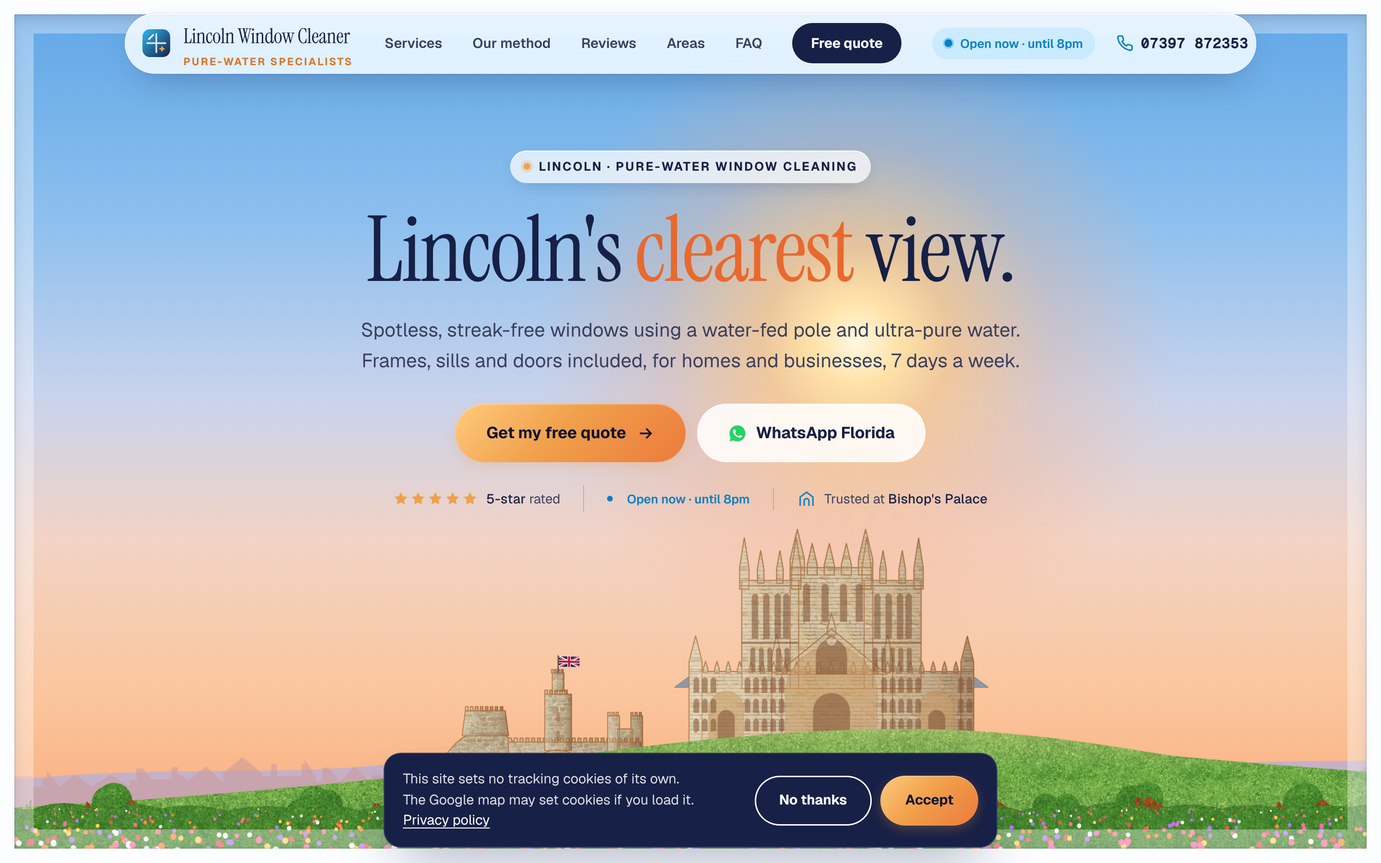
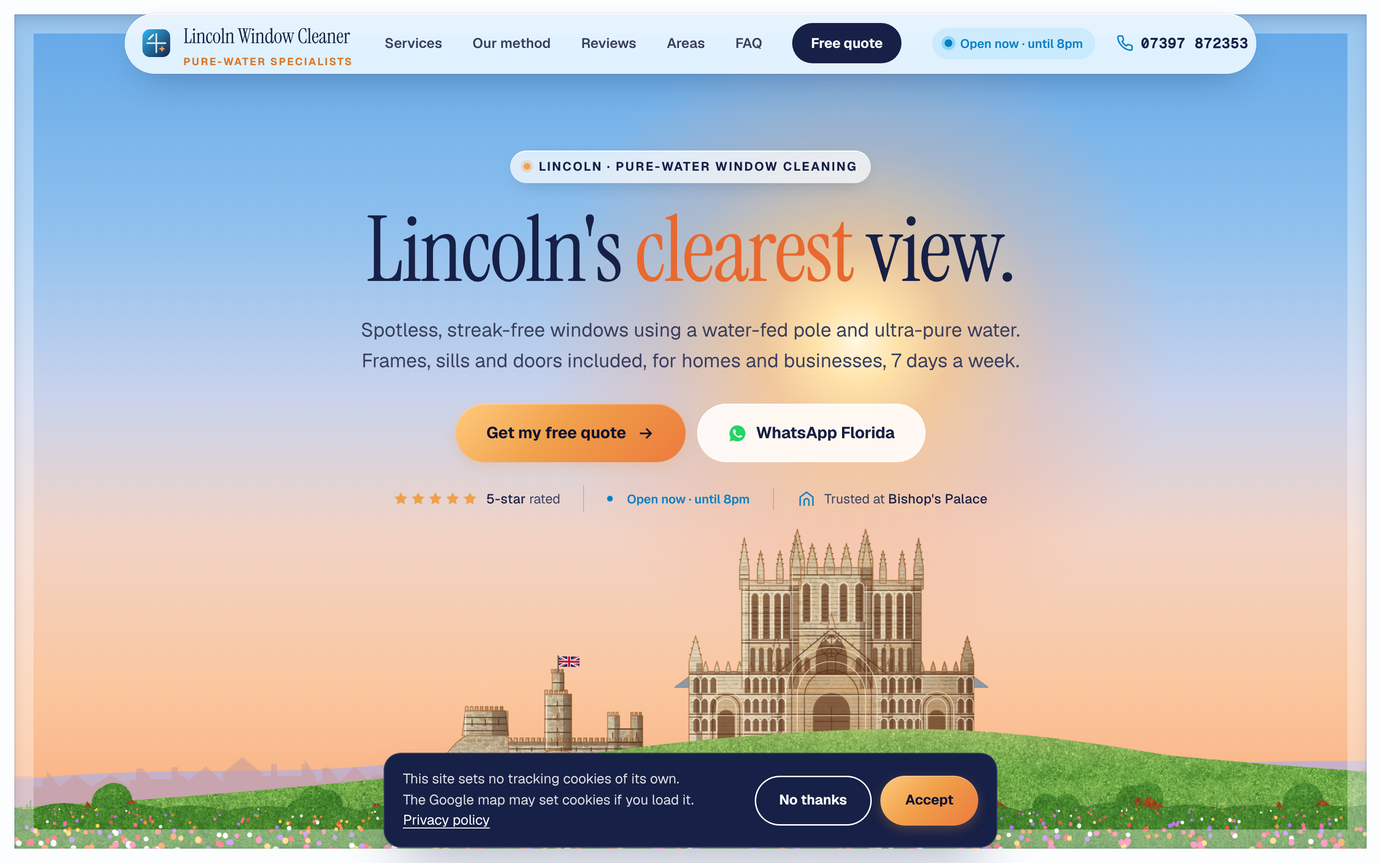
Hero: architectural detail on cathedral and castle (mouldings, arcading, courses, shading)
Claude-Session: https://claude.ai/code/session_01KZy8Ptkq3oxorUJVA8Emz7

Changed region(s): [[0.5, 0.6533, 0.7188, 0.8711], [0.3438, 0.8089, 0.4688, 0.8711]]

diff --git a/index.html b/index.html
@@ -150,14 +150,24 @@
             </g>
           </g>
         </g>
+                <g class="hero__detail">
+          <path fill="#4E3222" opacity=".42" d="M620 296H640V326H620ZM640 334H800V338H640ZM706 276H716V344H706ZM702 250H707V272H702ZM796 302H802V380H796ZM768 302H774V380H768ZM642.5 329h1v5h-1zM649.5 329h1v5h-1zM656.5 329h1v5h-1zM663.5 329h1v5h-1zM670.5 329h1v5h-1zM677.5 329h1v5h-1zM684.5 329h1v5h-1zM691.5 329h1v5h-1zM698.5 329h1v5h-1zM705.5 329h1v5h-1zM712.5 329h1v5h-1zM719.5 329h1v5h-1zM726.5 329h1v5h-1zM733.5 329h1v5h-1zM740.5 329h1v5h-1zM747.5 329h1v5h-1zM754.5 329h1v5h-1zM761.5 329h1v5h-1zM768.5 329h1v5h-1zM775.5 329h1v5h-1zM782.5 329h1v5h-1zM789.5 329h1v5h-1zM796.5 329h1v5h-1z"/>
+          <path fill="none" stroke="#4A2E1C" stroke-opacity=".85" stroke-width="1.2" d="M586 304H638M586 312H638M586 320H638M596 306v8M612 306v8M628 306v8M640 342H800M640 352H800M640 362H800M640 372H800M650 340v5M668 340v5M686 340v5M704 340v5M722 340v5M740 340v5M758 340v5M776 340v5M794 340v5M684 290H716M684 306H716M684 322H716M699 284v7M699 300v7M699 316v7M699 332v7M693 262H707M676 360H722M676 370H722M760 318H802M760 334H802M760 350H802M766 322v7M766 344v7M795 322v7M795 344v7"/>
+          <path fill="none" stroke="#FFF6E4" stroke-opacity=".9" stroke-width="1" d="M588 298V326M686 278V344"/>
+        </g>
         <g fill="#9A6440" opacity=".45"><path d="M775 380v-12a6 6 0 0 1 12 0v12z"/><path d="M698 300a2 2 0 0 1 4 0v10h-4zM698 322a2 2 0 0 1 4 0v10h-4z"/></g>
         <!-- LINCOLN CATHEDRAL west front (from Castle Hill): image screen with blind arcading and three Norman recesses, gable with the great west window, twin west towers and the taller central tower behind -->
         <g class="hero__cathedral" transform="matrix(0.86 0 0 0.86 738.0 -6.0)">
           <path fill="#8F99A3" stroke="#6E7882" d="M120 318L150 296H222V318ZM560 318L530 296H458V318Z"/>
           <g fill="url(#tex-stone)"><g id="cath-shape"><path d="M282 320V150H398V320ZM282 160V138L292.0 96L302 138V160ZM306 160V146L313.0 116L320 146V160ZM330 160V146L337.0 116L344 146V160ZM354 160V146L361.0 116L368 146V160ZM378 160V138L388.0 96L398 138V160ZM214 320V168H294V320ZM211 168H297V175H211ZM211 180V150L217.5 108L224 150V180ZM284 180V150L290.5 108L297 150V180ZM236 172V152L240.5 126L245 152V172ZM263 172V152L267.5 126L272 152V172ZM386 320V168H466V320ZM383 168H469V175H383ZM383 180V150L389.5 108L396 150V180ZM456 180V150L462.5 108L469 150V180ZM408 172V152L412.5 126L417 152V172ZM435 172V152L439.5 126L444 152V172ZM140 400V296H540V400ZM160 298V292L163.0 282L166 292V298ZM176 298V292L179.0 282L182 292V298ZM192 298V292L195.0 282L198 292V298ZM208 298V292L211.0 282L214 292V298ZM224 298V292L227.0 282L230 292V298ZM240 298V292L243.0 282L246 292V298ZM256 298V292L259.0 282L262 292V298ZM272 298V292L275.0 282L278 292V298ZM288 298V292L291.0 282L294 292V298ZM304 298V292L307.0 282L310 292V298ZM320 298V292L323.0 282L326 292V298ZM336 298V292L339.0 282L342 292V298ZM352 298V292L355.0 282L358 292V298ZM368 298V292L371.0 282L374 292V298ZM384 298V292L387.0 282L390 292V298ZM400 298V292L403.0 282L406 292V298ZM416 298V292L419.0 282L422 292V298ZM432 298V292L435.0 282L438 292V298ZM448 298V292L451.0 282L454 292V298ZM464 298V292L467.0 282L470 292V298ZM480 298V292L483.0 282L486 292V298ZM496 298V292L499.0 282L502 292V298ZM512 298V292L515.0 282L518 292V298ZM262 300L340 236L418 300ZM334 244V236L340.0 214L346 236V244ZM140 400V282L149.0 246L158 282V400ZM522 400V282L531.0 246L540 282V400ZM256 400V276L263.0 244L270 276V400ZM412 400V276L419.0 244L426 276V400Z"/></g></g><use href="#cath-shape" fill="url(#hero-shade)"/>
-          <path fill="#C99C68" opacity=".55" d="M168 400V348.0A24.0 24.0 0 0 1 216 348.0V400ZM464 400V348.0A24.0 24.0 0 0 1 512 348.0V400ZM276 400V326.0A64.0 64.0 0 0 1 404 326.0V400ZM292 400V330.0A48.0 48.0 0 0 1 388 330.0V400Z"/>
+          <path fill="#B98A58" opacity=".38" d="M168 400V348.0A24.0 24.0 0 0 1 216 348.0V400ZM464 400V348.0A24.0 24.0 0 0 1 512 348.0V400ZM276 400V326.0A64.0 64.0 0 0 1 404 326.0V400ZM292 400V330.0A48.0 48.0 0 0 1 388 330.0V400Z"/>
         </g>
-        <g fill="#7E5235" opacity=".55" transform="matrix(0.86 0 0 0.86 738.0 -6.0)"><path d="M300 226V178.0Q300 173.5 305.0 172Q310 173.5 310 178.0V226ZM326 226V178.0Q326 173.5 331.0 172Q336 173.5 336 178.0V226ZM352 226V178.0Q352 173.5 357.0 172Q362 173.5 362 178.0V226ZM374 226V178.0Q374 173.5 379.0 172Q384 173.5 384 178.0V226ZM228 250V191.4Q228 187.35 232.5 186Q237 187.35 237 191.4V250ZM244 250V191.4Q244 187.35 248.5 186Q253 187.35 253 191.4V250ZM260 250V191.4Q260 187.35 264.5 186Q269 187.35 269 191.4V250ZM272 250V191.4Q272 187.35 276.5 186Q281 187.35 281 191.4V250ZM226 296V266.2Q226 263.05 229.5 262Q233 263.05 233 266.2V296ZM238 296V266.2Q238 263.05 241.5 262Q245 263.05 245 266.2V296ZM250 296V266.2Q250 263.05 253.5 262Q257 263.05 257 266.2V296ZM262 296V266.2Q262 263.05 265.5 262Q269 263.05 269 266.2V296ZM274 296V266.2Q274 263.05 277.5 262Q281 263.05 281 266.2V296ZM214 254H294V257H214ZM400 250V191.4Q400 187.35 404.5 186Q409 187.35 409 191.4V250ZM416 250V191.4Q416 187.35 420.5 186Q425 187.35 425 191.4V250ZM432 250V191.4Q432 187.35 436.5 186Q441 187.35 441 191.4V250ZM444 250V191.4Q444 187.35 448.5 186Q453 187.35 453 191.4V250ZM398 296V266.2Q398 263.05 401.5 262Q405 263.05 405 266.2V296ZM410 296V266.2Q410 263.05 413.5 262Q417 263.05 417 266.2V296ZM422 296V266.2Q422 263.05 425.5 262Q429 263.05 429 266.2V296ZM434 296V266.2Q434 263.05 437.5 262Q441 263.05 441 266.2V296ZM446 296V266.2Q446 263.05 449.5 262Q453 263.05 453 266.2V296ZM386 254H466V257H386ZM146 326V308.8Q146 305.2 150.0 304Q154 305.2 154 308.8V326ZM158 326V308.8Q158 305.2 162.0 304Q166 305.2 166 308.8V326ZM170 326V308.8Q170 305.2 174.0 304Q178 305.2 178 308.8V326ZM218 326V308.8Q218 305.2 222.0 304Q226 305.2 226 308.8V326ZM230 326V308.8Q230 305.2 234.0 304Q238 305.2 238 308.8V326ZM242 326V308.8Q242 305.2 246.0 304Q250 305.2 250 308.8V326ZM254 326V308.8Q254 305.2 258.0 304Q262 305.2 262 308.8V326ZM266 326V308.8Q266 305.2 270.0 304Q274 305.2 274 308.8V326ZM410 326V308.8Q410 305.2 414.0 304Q418 305.2 418 308.8V326ZM422 326V308.8Q422 305.2 426.0 304Q430 305.2 430 308.8V326ZM434 326V308.8Q434 305.2 438.0 304Q442 305.2 442 308.8V326ZM446 326V308.8Q446 305.2 450.0 304Q454 305.2 454 308.8V326ZM458 326V308.8Q458 305.2 462.0 304Q466 305.2 466 308.8V326ZM518 326V308.8Q518 305.2 522.0 304Q526 305.2 526 308.8V326ZM530 326V308.8Q530 305.2 534.0 304Q538 305.2 538 308.8V326ZM146 354V338.8Q146 335.2 150.0 334Q154 335.2 154 338.8V354ZM158 354V338.8Q158 335.2 162.0 334Q166 335.2 166 338.8V354ZM170 354V338.8Q170 335.2 174.0 334Q178 335.2 178 338.8V354ZM218 354V338.8Q218 335.2 222.0 334Q226 335.2 226 338.8V354ZM230 354V338.8Q230 335.2 234.0 334Q238 335.2 238 338.8V354ZM242 354V338.8Q242 335.2 246.0 334Q250 335.2 250 338.8V354ZM254 354V338.8Q254 335.2 258.0 334Q262 335.2 262 338.8V354ZM266 354V338.8Q266 335.2 270.0 334Q274 335.2 274 338.8V354ZM410 354V338.8Q410 335.2 414.0 334Q418 335.2 418 338.8V354ZM422 354V338.8Q422 335.2 426.0 334Q430 335.2 430 338.8V354ZM434 354V338.8Q434 335.2 438.0 334Q442 335.2 442 338.8V354ZM446 354V338.8Q446 335.2 450.0 334Q454 335.2 454 338.8V354ZM458 354V338.8Q458 335.2 462.0 334Q466 335.2 466 338.8V354ZM518 354V338.8Q518 335.2 522.0 334Q526 335.2 526 338.8V354ZM530 354V338.8Q530 335.2 534.0 334Q538 335.2 538 338.8V354ZM146 380V366.8Q146 363.2 150.0 362Q154 363.2 154 366.8V380ZM158 380V366.8Q158 363.2 162.0 362Q166 363.2 166 366.8V380ZM170 380V366.8Q170 363.2 174.0 362Q178 363.2 178 366.8V380ZM218 380V366.8Q218 363.2 222.0 362Q226 363.2 226 366.8V380ZM230 380V366.8Q230 363.2 234.0 362Q238 363.2 238 366.8V380ZM242 380V366.8Q242 363.2 246.0 362Q250 363.2 250 366.8V380ZM254 380V366.8Q254 363.2 258.0 362Q262 363.2 262 366.8V380ZM266 380V366.8Q266 363.2 270.0 362Q274 363.2 274 366.8V380ZM410 380V366.8Q410 363.2 414.0 362Q418 363.2 418 366.8V380ZM422 380V366.8Q422 363.2 426.0 362Q430 363.2 430 366.8V380ZM434 380V366.8Q434 363.2 438.0 362Q442 363.2 442 366.8V380ZM446 380V366.8Q446 363.2 450.0 362Q454 363.2 454 366.8V380ZM458 380V366.8Q458 363.2 462.0 362Q466 363.2 466 366.8V380ZM518 380V366.8Q518 363.2 522.0 362Q526 363.2 526 366.8V380ZM530 380V366.8Q530 363.2 534.0 362Q538 363.2 538 366.8V380ZM314 400V352A26 26 0 0 1 366 352V400ZM180 400V362.0A12.0 12.0 0 0 1 204 362.0V400ZM476 400V362.0A12.0 12.0 0 0 1 500 362.0V400ZM318 300V274.4Q318 254.6 340.0 248Q362 254.6 362 274.4V300ZM333 252a7 7 0 1 0 14 0a7 7 0 1 0 -14 0ZM148 310h3v12h-3zM148 340h3v12h-3zM148 370h3v12h-3zM530 310h3v12h-3zM530 340h3v12h-3zM530 370h3v12h-3z"/></g>
+        <g fill="#6A4026" opacity=".72" transform="matrix(0.86 0 0 0.86 738.0 -6.0)"><path d="M300 226V178.0Q300 173.5 305.0 172Q310 173.5 310 178.0V226ZM326 226V178.0Q326 173.5 331.0 172Q336 173.5 336 178.0V226ZM352 226V178.0Q352 173.5 357.0 172Q362 173.5 362 178.0V226ZM374 226V178.0Q374 173.5 379.0 172Q384 173.5 384 178.0V226ZM228 250V191.4Q228 187.35 232.5 186Q237 187.35 237 191.4V250ZM244 250V191.4Q244 187.35 248.5 186Q253 187.35 253 191.4V250ZM260 250V191.4Q260 187.35 264.5 186Q269 187.35 269 191.4V250ZM272 250V191.4Q272 187.35 276.5 186Q281 187.35 281 191.4V250ZM226 296V266.2Q226 263.05 229.5 262Q233 263.05 233 266.2V296ZM238 296V266.2Q238 263.05 241.5 262Q245 263.05 245 266.2V296ZM250 296V266.2Q250 263.05 253.5 262Q257 263.05 257 266.2V296ZM262 296V266.2Q262 263.05 265.5 262Q269 263.05 269 266.2V296ZM274 296V266.2Q274 263.05 277.5 262Q281 263.05 281 266.2V296ZM214 254H294V257H214ZM400 250V191.4Q400 187.35 404.5 186Q409 187.35 409 191.4V250ZM416 250V191.4Q416 187.35 420.5 186Q425 187.35 425 191.4V250ZM432 250V191.4Q432 187.35 436.5 186Q441 187.35 441 191.4V250ZM444 250V191.4Q444 187.35 448.5 186Q453 187.35 453 191.4V250ZM398 296V266.2Q398 263.05 401.5 262Q405 263.05 405 266.2V296ZM410 296V266.2Q410 263.05 413.5 262Q417 263.05 417 266.2V296ZM422 296V266.2Q422 263.05 425.5 262Q429 263.05 429 266.2V296ZM434 296V266.2Q434 263.05 437.5 262Q441 263.05 441 266.2V296ZM446 296V266.2Q446 263.05 449.5 262Q453 263.05 453 266.2V296ZM386 254H466V257H386ZM146 326V308.8Q146 305.2 150.0 304Q154 305.2 154 308.8V326ZM158 326V308.8Q158 305.2 162.0 304Q166 305.2 166 308.8V326ZM170 326V308.8Q170 305.2 174.0 304Q178 305.2 178 308.8V326ZM218 326V308.8Q218 305.2 222.0 304Q226 305.2 226 308.8V326ZM230 326V308.8Q230 305.2 234.0 304Q238 305.2 238 308.8V326ZM242 326V308.8Q242 305.2 246.0 304Q250 305.2 250 308.8V326ZM254 326V308.8Q254 305.2 258.0 304Q262 305.2 262 308.8V326ZM266 326V308.8Q266 305.2 270.0 304Q274 305.2 274 308.8V326ZM410 326V308.8Q410 305.2 414.0 304Q418 305.2 418 308.8V326ZM422 326V308.8Q422 305.2 426.0 304Q430 305.2 430 308.8V326ZM434 326V308.8Q434 305.2 438.0 304Q442 305.2 442 308.8V326ZM446 326V308.8Q446 305.2 450.0 304Q454 305.2 454 308.8V326ZM458 326V308.8Q458 305.2 462.0 304Q466 305.2 466 308.8V326ZM518 326V308.8Q518 305.2 522.0 304Q526 305.2 526 308.8V326ZM530 326V308.8Q530 305.2 534.0 304Q538 305.2 538 308.8V326ZM146 354V338.8Q146 335.2 150.0 334Q154 335.2 154 338.8V354ZM158 354V338.8Q158 335.2 162.0 334Q166 335.2 166 338.8V354ZM170 354V338.8Q170 335.2 174.0 334Q178 335.2 178 338.8V354ZM218 354V338.8Q218 335.2 222.0 334Q226 335.2 226 338.8V354ZM230 354V338.8Q230 335.2 234.0 334Q238 335.2 238 338.8V354ZM242 354V338.8Q242 335.2 246.0 334Q250 335.2 250 338.8V354ZM254 354V338.8Q254 335.2 258.0 334Q262 335.2 262 338.8V354ZM266 354V338.8Q266 335.2 270.0 334Q274 335.2 274 338.8V354ZM410 354V338.8Q410 335.2 414.0 334Q418 335.2 418 338.8V354ZM422 354V338.8Q422 335.2 426.0 334Q430 335.2 430 338.8V354ZM434 354V338.8Q434 335.2 438.0 334Q442 335.2 442 338.8V354ZM446 354V338.8Q446 335.2 450.0 334Q454 335.2 454 338.8V354ZM458 354V338.8Q458 335.2 462.0 334Q466 335.2 466 338.8V354ZM518 354V338.8Q518 335.2 522.0 334Q526 335.2 526 338.8V354ZM530 354V338.8Q530 335.2 534.0 334Q538 335.2 538 338.8V354ZM146 380V366.8Q146 363.2 150.0 362Q154 363.2 154 366.8V380ZM158 380V366.8Q158 363.2 162.0 362Q166 363.2 166 366.8V380ZM170 380V366.8Q170 363.2 174.0 362Q178 363.2 178 366.8V380ZM218 380V366.8Q218 363.2 222.0 362Q226 363.2 226 366.8V380ZM230 380V366.8Q230 363.2 234.0 362Q238 363.2 238 366.8V380ZM242 380V366.8Q242 363.2 246.0 362Q250 363.2 250 366.8V380ZM254 380V366.8Q254 363.2 258.0 362Q262 363.2 262 366.8V380ZM266 380V366.8Q266 363.2 270.0 362Q274 363.2 274 366.8V380ZM410 380V366.8Q410 363.2 414.0 362Q418 363.2 418 366.8V380ZM422 380V366.8Q422 363.2 426.0 362Q430 363.2 430 366.8V380ZM434 380V366.8Q434 363.2 438.0 362Q442 363.2 442 366.8V380ZM446 380V366.8Q446 363.2 450.0 362Q454 363.2 454 366.8V380ZM458 380V366.8Q458 363.2 462.0 362Q466 363.2 466 366.8V380ZM518 380V366.8Q518 363.2 522.0 362Q526 363.2 526 366.8V380ZM530 380V366.8Q530 363.2 534.0 362Q538 363.2 538 366.8V380ZM314 400V352A26 26 0 0 1 366 352V400ZM180 400V362.0A12.0 12.0 0 0 1 204 362.0V400ZM476 400V362.0A12.0 12.0 0 0 1 500 362.0V400ZM318 300V274.4Q318 254.6 340.0 248Q362 254.6 362 274.4V300ZM333 252a7 7 0 1 0 14 0a7 7 0 1 0 -14 0ZM148 310h3v12h-3zM148 340h3v12h-3zM148 370h3v12h-3zM530 310h3v12h-3zM530 340h3v12h-3zM530 370h3v12h-3zM290 296V280.8Q290 277.2 294.0 276Q298 277.2 298 280.8V296M292.5 296v-12a1.5 1.5 0 0 1 3 0v12zM302 296V280.8Q302 277.2 306.0 276Q310 277.2 310 280.8V296M304.5 296v-12a1.5 1.5 0 0 1 3 0v12zM374 296V280.8Q374 277.2 378.0 276Q382 277.2 382 280.8V296M376.5 296v-12a1.5 1.5 0 0 1 3 0v12zM386 296V280.8Q386 277.2 390.0 276Q394 277.2 394 280.8V296M388.5 296v-12a1.5 1.5 0 0 1 3 0v12z"/></g>
+        <g class="hero__detail" transform="matrix(0.86 0 0 0.86 738.0 -6.0)">
+          <path fill="#5A341C" opacity=".4" d="M280 175H294V320H280ZM452 175H466V320H452ZM380 150H398V320H380ZM140 296H540V300H140ZM149.9 284H158V400H149.9ZM531.9 284H540V400H531.9ZM263.7 278H270V400H263.7ZM419.7 278H426V400H419.7Z"/>
+          <path fill="none" stroke="#55301A" stroke-opacity=".85" stroke-width="1.1" d="M224 175V320M284 175V320M214 182H294M214 214H294M214 252H294M214 300H294M229 206H236M229 212H236M229 218H236M229 224H236M229 230H236M229 236H236M229 242H236M245 206H252M245 212H252M245 218H252M245 224H252M245 230H252M245 236H252M245 242H252M261 206H268M261 212H268M261 218H268M261 224H268M261 230H268M261 236H268M261 242H268M273 206H280M273 212H280M273 218H280M273 224H280M273 230H280M273 236H280M273 242H280M212.625 139.5l-2 -1.5M222.375 139.5l2 -1.5M214.25 129.0l-2 -1.5M220.75 129.0l2 -1.5M215.875 118.5l-2 -1.5M219.125 118.5l2 -1.5M285.625 139.5l-2 -1.5M295.375 139.5l2 -1.5M287.25 129.0l-2 -1.5M293.75 129.0l2 -1.5M288.875 118.5l-2 -1.5M292.125 118.5l2 -1.5M237.125 145.5l-2 -1.5M243.875 145.5l2 -1.5M238.25 139.0l-2 -1.5M242.75 139.0l2 -1.5M239.375 132.5l-2 -1.5M241.625 132.5l2 -1.5M264.125 145.5l-2 -1.5M270.875 145.5l2 -1.5M265.25 139.0l-2 -1.5M269.75 139.0l2 -1.5M266.375 132.5l-2 -1.5M268.625 132.5l2 -1.5M211 160h13M211 166h13M284 160h13M284 166h13M396 175V320M456 175V320M386 182H466M386 214H466M386 252H466M386 300H466M401 206H408M401 212H408M401 218H408M401 224H408M401 230H408M401 236H408M401 242H408M417 206H424M417 212H424M417 218H424M417 224H424M417 230H424M417 236H424M417 242H424M433 206H440M433 212H440M433 218H440M433 224H440M433 230H440M433 236H440M433 242H440M445 206H452M445 212H452M445 218H452M445 224H452M445 230H452M445 236H452M445 242H452M384.625 139.5l-2 -1.5M394.375 139.5l2 -1.5M386.25 129.0l-2 -1.5M392.75 129.0l2 -1.5M387.875 118.5l-2 -1.5M391.125 118.5l2 -1.5M457.625 139.5l-2 -1.5M467.375 139.5l2 -1.5M459.25 129.0l-2 -1.5M465.75 129.0l2 -1.5M460.875 118.5l-2 -1.5M464.125 118.5l2 -1.5M409.125 145.5l-2 -1.5M415.875 145.5l2 -1.5M410.25 139.0l-2 -1.5M414.75 139.0l2 -1.5M411.375 132.5l-2 -1.5M413.625 132.5l2 -1.5M436.125 145.5l-2 -1.5M442.875 145.5l2 -1.5M437.25 139.0l-2 -1.5M441.75 139.0l2 -1.5M438.375 132.5l-2 -1.5M440.625 132.5l2 -1.5M383 160h13M383 166h13M456 160h13M456 166h13M282 160H398M282 236H398M282 246H398M301 190H309M301 196H309M301 202H309M301 208H309M301 214H309M301 220H309M327 190H335M327 196H335M327 202H335M327 208H335M327 214H335M327 220H335M353 190H361M353 196H361M353 202H361M353 208H361M353 214H361M353 220H361M375 190H383M375 196H383M375 202H383M375 208H383M375 214H383M375 220H383M284.5 127.5l-2 -1.5M299.5 127.5l2 -1.5M287.0 117.0l-2 -1.5M297.0 117.0l2 -1.5M289.5 106.5l-2 -1.5M294.5 106.5l2 -1.5M380.5 127.5l-2 -1.5M395.5 127.5l2 -1.5M383.0 117.0l-2 -1.5M393.0 117.0l2 -1.5M385.5 106.5l-2 -1.5M390.5 106.5l2 -1.5M307.75 138.5l-2 -1.5M318.25 138.5l2 -1.5M309.5 131.0l-2 -1.5M316.5 131.0l2 -1.5M311.25 123.5l-2 -1.5M314.75 123.5l2 -1.5M331.75 138.5l-2 -1.5M342.25 138.5l2 -1.5M333.5 131.0l-2 -1.5M340.5 131.0l2 -1.5M335.25 123.5l-2 -1.5M338.75 123.5l2 -1.5M355.75 138.5l-2 -1.5M366.25 138.5l2 -1.5M357.5 131.0l-2 -1.5M364.5 131.0l2 -1.5M359.25 123.5l-2 -1.5M362.75 123.5l2 -1.5M140 300H540M140 328H540M140 356H540M140 384H540M144.5 310V326M143 308.8h3M156.5 310V326M155 308.8h3M168.5 310V326M167 308.8h3M216.5 310V326M215 308.8h3M228.5 310V326M227 308.8h3M240.5 310V326M239 308.8h3M252.5 310V326M251 308.8h3M264.5 310V326M263 308.8h3M408.5 310V326M407 308.8h3M420.5 310V326M419 308.8h3M432.5 310V326M431 308.8h3M444.5 310V326M443 308.8h3M456.5 310V326M455 308.8h3M516.5 310V326M515 308.8h3M528.5 310V326M527 308.8h3M144.5 340V354M143 338.8h3M156.5 340V354M155 338.8h3M168.5 340V354M167 338.8h3M216.5 340V354M215 338.8h3M228.5 340V354M227 338.8h3M240.5 340V354M239 338.8h3M252.5 340V354M251 338.8h3M264.5 340V354M263 338.8h3M408.5 340V354M407 338.8h3M420.5 340V354M419 338.8h3M432.5 340V354M431 338.8h3M444.5 340V354M443 338.8h3M456.5 340V354M455 338.8h3M516.5 340V354M515 338.8h3M528.5 340V354M527 338.8h3M144.5 368V380M143 366.8h3M156.5 368V380M155 366.8h3M168.5 368V380M167 366.8h3M216.5 368V380M215 366.8h3M228.5 368V380M227 366.8h3M240.5 368V380M239 366.8h3M252.5 368V380M251 366.8h3M264.5 368V380M263 366.8h3M408.5 368V380M407 366.8h3M420.5 368V380M419 366.8h3M432.5 368V380M431 366.8h3M444.5 368V380M443 366.8h3M456.5 368V380M455 366.8h3M516.5 368V380M515 366.8h3M528.5 368V380M527 366.8h3M140 300H158M140 330H158M140 360H158M142.25 273.0l-2 -1.5M155.75 273.0l2 -1.5M144.5 264.0l-2 -1.5M153.5 264.0l2 -1.5M146.75 255.0l-2 -1.5M151.25 255.0l2 -1.5M522 300H540M522 330H540M522 360H540M524.25 273.0l-2 -1.5M537.75 273.0l2 -1.5M526.5 264.0l-2 -1.5M535.5 264.0l2 -1.5M528.75 255.0l-2 -1.5M533.25 255.0l2 -1.5M256 300H270M256 330H270M256 360H270M257.75 268.0l-2 -1.5M268.25 268.0l2 -1.5M259.5 260.0l-2 -1.5M266.5 260.0l2 -1.5M261.25 252.0l-2 -1.5M264.75 252.0l2 -1.5M412 300H426M412 330H426M412 360H426M413.75 268.0l-2 -1.5M424.25 268.0l2 -1.5M415.5 260.0l-2 -1.5M422.5 260.0l2 -1.5M417.25 252.0l-2 -1.5M420.75 252.0l2 -1.5M262 300L340 236L418 300M271.75 292.0l-1 -3M408.25 292.0l1 -3M281.5 284.0l-1 -3M398.5 284.0l1 -3M291.25 276.0l-1 -3M388.75 276.0l1 -3M301.0 268.0l-1 -3M379.0 268.0l1 -3M310.75 260.0l-1 -3M369.25 260.0l1 -3M320.5 252.0l-1 -3M359.5 252.0l1 -3M330.25 244.0l-1 -3M349.75 244.0l1 -3M340 260m-15 0a15 15 0 1 0 30 0a15 15 0 1 0 -30 0M340 260L355.0 260.0M340 260L350.6 270.6M340 260L340.0 275.0M340 260L329.4 270.6M340 260L325.0 260.0M340 260L329.4 249.4M340 260L340.0 245.0M340 260L350.6 249.4M334 272V300M346 272V300M284 400V326.0A56.0 56.0 0 0 1 396 326.0V400M302 400V332.0A38.0 38.0 0 0 1 378 332.0V400M173 400V348.0A19.0 19.0 0 0 1 211 348.0V400M469 400V348.0A19.0 19.0 0 0 1 507 348.0V400M316 366h48M316 380h48M316 392h48M340 346V400"/>
+          <path fill="none" stroke="#FFF6E4" stroke-opacity=".9" stroke-width=".9" d="M217 175V320M214 184H294M214 254H294M226 250V190.8Q226 184.95 232.5 183Q239 184.95 239 190.8V250M242 250V190.8Q242 184.95 248.5 183Q255 184.95 255 190.8V250M258 250V190.8Q258 184.95 264.5 183Q271 184.95 271 190.8V250M270 250V190.8Q270 184.95 276.5 183Q283 184.95 283 190.8V250M389 175V320M386 184H466M386 254H466M398 250V190.8Q398 184.95 404.5 183Q411 184.95 411 190.8V250M414 250V190.8Q414 184.95 420.5 183Q427 184.95 427 190.8V250M430 250V190.8Q430 184.95 436.5 183Q443 184.95 443 190.8V250M442 250V190.8Q442 184.95 448.5 183Q455 184.95 455 190.8V250M285 150V320M282 238H398M298 226V178.4Q298 172.1 305.0 170Q312 172.1 312 178.4V226M324 226V178.4Q324 172.1 331.0 170Q338 172.1 338 178.4V226M350 226V178.4Q350 172.1 357.0 170Q364 172.1 364 178.4V226M372 226V178.4Q372 172.1 379.0 170Q386 172.1 386 178.4V226M140 302H540M140 330H540M140 358H540M144.5 326V309.6Q144.5 304.65 150.0 303Q155.5 304.65 155.5 309.6V326M156.5 326V309.6Q156.5 304.65 162.0 303Q167.5 304.65 167.5 309.6V326M168.5 326V309.6Q168.5 304.65 174.0 303Q179.5 304.65 179.5 309.6V326M216.5 326V309.6Q216.5 304.65 222.0 303Q227.5 304.65 227.5 309.6V326M228.5 326V309.6Q228.5 304.65 234.0 303Q239.5 304.65 239.5 309.6V326M240.5 326V309.6Q240.5 304.65 246.0 303Q251.5 304.65 251.5 309.6V326M252.5 326V309.6Q252.5 304.65 258.0 303Q263.5 304.65 263.5 309.6V326M264.5 326V309.6Q264.5 304.65 270.0 303Q275.5 304.65 275.5 309.6V326M408.5 326V309.6Q408.5 304.65 414.0 303Q419.5 304.65 419.5 309.6V326M420.5 326V309.6Q420.5 304.65 426.0 303Q431.5 304.65 431.5 309.6V326M432.5 326V309.6Q432.5 304.65 438.0 303Q443.5 304.65 443.5 309.6V326M444.5 326V309.6Q444.5 304.65 450.0 303Q455.5 304.65 455.5 309.6V326M456.5 326V309.6Q456.5 304.65 462.0 303Q467.5 304.65 467.5 309.6V326M516.5 326V309.6Q516.5 304.65 522.0 303Q527.5 304.65 527.5 309.6V326M528.5 326V309.6Q528.5 304.65 534.0 303Q539.5 304.65 539.5 309.6V326M144.5 354V339.6Q144.5 334.65 150.0 333Q155.5 334.65 155.5 339.6V354M156.5 354V339.6Q156.5 334.65 162.0 333Q167.5 334.65 167.5 339.6V354M168.5 354V339.6Q168.5 334.65 174.0 333Q179.5 334.65 179.5 339.6V354M216.5 354V339.6Q216.5 334.65 222.0 333Q227.5 334.65 227.5 339.6V354M228.5 354V339.6Q228.5 334.65 234.0 333Q239.5 334.65 239.5 339.6V354M240.5 354V339.6Q240.5 334.65 246.0 333Q251.5 334.65 251.5 339.6V354M252.5 354V339.6Q252.5 334.65 258.0 333Q263.5 334.65 263.5 339.6V354M264.5 354V339.6Q264.5 334.65 270.0 333Q275.5 334.65 275.5 339.6V354M408.5 354V339.6Q408.5 334.65 414.0 333Q419.5 334.65 419.5 339.6V354M420.5 354V339.6Q420.5 334.65 426.0 333Q431.5 334.65 431.5 339.6V354M432.5 354V339.6Q432.5 334.65 438.0 333Q443.5 334.65 443.5 339.6V354M444.5 354V339.6Q444.5 334.65 450.0 333Q455.5 334.65 455.5 339.6V354M456.5 354V339.6Q456.5 334.65 462.0 333Q467.5 334.65 467.5 339.6V354M516.5 354V339.6Q516.5 334.65 522.0 333Q527.5 334.65 527.5 339.6V354M528.5 354V339.6Q528.5 334.65 534.0 333Q539.5 334.65 539.5 339.6V354M144.5 380V367.6Q144.5 362.65 150.0 361Q155.5 362.65 155.5 367.6V380M156.5 380V367.6Q156.5 362.65 162.0 361Q167.5 362.65 167.5 367.6V380M168.5 380V367.6Q168.5 362.65 174.0 361Q179.5 362.65 179.5 367.6V380M216.5 380V367.6Q216.5 362.65 222.0 361Q227.5 362.65 227.5 367.6V380M228.5 380V367.6Q228.5 362.65 234.0 361Q239.5 362.65 239.5 367.6V380M240.5 380V367.6Q240.5 362.65 246.0 361Q251.5 362.65 251.5 367.6V380M252.5 380V367.6Q252.5 362.65 258.0 361Q263.5 362.65 263.5 367.6V380M264.5 380V367.6Q264.5 362.65 270.0 361Q275.5 362.65 275.5 367.6V380M408.5 380V367.6Q408.5 362.65 414.0 361Q419.5 362.65 419.5 367.6V380M420.5 380V367.6Q420.5 362.65 426.0 361Q431.5 362.65 431.5 367.6V380M432.5 380V367.6Q432.5 362.65 438.0 361Q443.5 362.65 443.5 367.6V380M444.5 380V367.6Q444.5 362.65 450.0 361Q455.5 362.65 455.5 367.6V380M456.5 380V367.6Q456.5 362.65 462.0 361Q467.5 362.65 467.5 367.6V380M516.5 380V367.6Q516.5 362.65 522.0 361Q527.5 362.65 527.5 367.6V380M528.5 380V367.6Q528.5 362.65 534.0 361Q539.5 362.65 539.5 367.6V380M276 400V326.0A64.0 64.0 0 0 1 404 326.0V400M292 400V330.0A48.0 48.0 0 0 1 388 330.0V400M168 400V348.0A24.0 24.0 0 0 1 216 348.0V400M178 400V348.0A14.0 14.0 0 0 1 206 348.0V400M464 400V348.0A24.0 24.0 0 0 1 512 348.0V400M474 400V348.0A14.0 14.0 0 0 1 502 348.0V400"/>
+        </g>
         <!-- The hill - sits INTO the base of buildings -->
         <path fill="url(#tex-grass)" d="M-1220 480V428C-800 426 -300 420 0 415C240 404 520 378 720 350C830 335 960 320 1090 318C1230 316 1330 332 1440 350C1800 384 2200 400 2640 404V480Z"/><path fill="url(#hero-hillshade)" d="M-1220 480V428C-800 426 -300 420 0 415C240 404 520 378 720 350C830 335 960 320 1090 318C1230 316 1330 332 1440 350C1800 384 2200 400 2640 404V480Z"/>
       </g>

diff --git a/parts/hero.html b/parts/hero.html
@@ -58,14 +58,24 @@
             </g>
           </g>
         </g>
+                <g class="hero__detail">
+          <path fill="#4E3222" opacity=".42" d="M620 296H640V326H620ZM640 334H800V338H640ZM706 276H716V344H706ZM702 250H707V272H702ZM796 302H802V380H796ZM768 302H774V380H768ZM642.5 329h1v5h-1zM649.5 329h1v5h-1zM656.5 329h1v5h-1zM663.5 329h1v5h-1zM670.5 329h1v5h-1zM677.5 329h1v5h-1zM684.5 329h1v5h-1zM691.5 329h1v5h-1zM698.5 329h1v5h-1zM705.5 329h1v5h-1zM712.5 329h1v5h-1zM719.5 329h1v5h-1zM726.5 329h1v5h-1zM733.5 329h1v5h-1zM740.5 329h1v5h-1zM747.5 329h1v5h-1zM754.5 329h1v5h-1zM761.5 329h1v5h-1zM768.5 329h1v5h-1zM775.5 329h1v5h-1zM782.5 329h1v5h-1zM789.5 329h1v5h-1zM796.5 329h1v5h-1z"/>
+          <path fill="none" stroke="#4A2E1C" stroke-opacity=".85" stroke-width="1.2" d="M586 304H638M586 312H638M586 320H638M596 306v8M612 306v8M628 306v8M640 342H800M640 352H800M640 362H800M640 372H800M650 340v5M668 340v5M686 340v5M704 340v5M722 340v5M740 340v5M758 340v5M776 340v5M794 340v5M684 290H716M684 306H716M684 322H716M699 284v7M699 300v7M699 316v7M699 332v7M693 262H707M676 360H722M676 370H722M760 318H802M760 334H802M760 350H802M766 322v7M766 344v7M795 322v7M795 344v7"/>
+          <path fill="none" stroke="#FFF6E4" stroke-opacity=".9" stroke-width="1" d="M588 298V326M686 278V344"/>
+        </g>
         <g fill="#9A6440" opacity=".45"><path d="M775 380v-12a6 6 0 0 1 12 0v12z"/><path d="M698 300a2 2 0 0 1 4 0v10h-4zM698 322a2 2 0 0 1 4 0v10h-4z"/></g>
         <!-- LINCOLN CATHEDRAL west front (from Castle Hill): image screen with blind arcading and three Norman recesses, gable with the great west window, twin west towers and the taller central tower behind -->
         <g class="hero__cathedral" transform="matrix(0.86 0 0 0.86 738.0 -6.0)">
           <path fill="#8F99A3" stroke="#6E7882" d="M120 318L150 296H222V318ZM560 318L530 296H458V318Z"/>
           <g fill="url(#tex-stone)"><g id="cath-shape"><path d="M282 320V150H398V320ZM282 160V138L292.0 96L302 138V160ZM306 160V146L313.0 116L320 146V160ZM330 160V146L337.0 116L344 146V160ZM354 160V146L361.0 116L368 146V160ZM378 160V138L388.0 96L398 138V160ZM214 320V168H294V320ZM211 168H297V175H211ZM211 180V150L217.5 108L224 150V180ZM284 180V150L290.5 108L297 150V180ZM236 172V152L240.5 126L245 152V172ZM263 172V152L267.5 126L272 152V172ZM386 320V168H466V320ZM383 168H469V175H383ZM383 180V150L389.5 108L396 150V180ZM456 180V150L462.5 108L469 150V180ZM408 172V152L412.5 126L417 152V172ZM435 172V152L439.5 126L444 152V172ZM140 400V296H540V400ZM160 298V292L163.0 282L166 292V298ZM176 298V292L179.0 282L182 292V298ZM192 298V292L195.0 282L198 292V298ZM208 298V292L211.0 282L214 292V298ZM224 298V292L227.0 282L230 292V298ZM240 298V292L243.0 282L246 292V298ZM256 298V292L259.0 282L262 292V298ZM272 298V292L275.0 282L278 292V298ZM288 298V292L291.0 282L294 292V298ZM304 298V292L307.0 282L310 292V298ZM320 298V292L323.0 282L326 292V298ZM336 298V292L339.0 282L342 292V298ZM352 298V292L355.0 282L358 292V298ZM368 298V292L371.0 282L374 292V298ZM384 298V292L387.0 282L390 292V298ZM400 298V292L403.0 282L406 292V298ZM416 298V292L419.0 282L422 292V298ZM432 298V292L435.0 282L438 292V298ZM448 298V292L451.0 282L454 292V298ZM464 298V292L467.0 282L470 292V298ZM480 298V292L483.0 282L486 292V298ZM496 298V292L499.0 282L502 292V298ZM512 298V292L515.0 282L518 292V298ZM262 300L340 236L418 300ZM334 244V236L340.0 214L346 236V244ZM140 400V282L149.0 246L158 282V400ZM522 400V282L531.0 246L540 282V400ZM256 400V276L263.0 244L270 276V400ZM412 400V276L419.0 244L426 276V400Z"/></g></g><use href="#cath-shape" fill="url(#hero-shade)"/>
-          <path fill="#C99C68" opacity=".55" d="M168 400V348.0A24.0 24.0 0 0 1 216 348.0V400ZM464 400V348.0A24.0 24.0 0 0 1 512 348.0V400ZM276 400V326.0A64.0 64.0 0 0 1 404 326.0V400ZM292 400V330.0A48.0 48.0 0 0 1 388 330.0V400Z"/>
+          <path fill="#B98A58" opacity=".38" d="M168 400V348.0A24.0 24.0 0 0 1 216 348.0V400ZM464 400V348.0A24.0 24.0 0 0 1 512 348.0V400ZM276 400V326.0A64.0 64.0 0 0 1 404 326.0V400ZM292 400V330.0A48.0 48.0 0 0 1 388 330.0V400Z"/>
         </g>
-        <g fill="#7E5235" opacity=".55" transform="matrix(0.86 0 0 0.86 738.0 -6.0)"><path d="M300 226V178.0Q300 173.5 305.0 172Q310 173.5 310 178.0V226ZM326 226V178.0Q326 173.5 331.0 172Q336 173.5 336 178.0V226ZM352 226V178.0Q352 173.5 357.0 172Q362 173.5 362 178.0V226ZM374 226V178.0Q374 173.5 379.0 172Q384 173.5 384 178.0V226ZM228 250V191.4Q228 187.35 232.5 186Q237 187.35 237 191.4V250ZM244 250V191.4Q244 187.35 248.5 186Q253 187.35 253 191.4V250ZM260 250V191.4Q260 187.35 264.5 186Q269 187.35 269 191.4V250ZM272 250V191.4Q272 187.35 276.5 186Q281 187.35 281 191.4V250ZM226 296V266.2Q226 263.05 229.5 262Q233 263.05 233 266.2V296ZM238 296V266.2Q238 263.05 241.5 262Q245 263.05 245 266.2V296ZM250 296V266.2Q250 263.05 253.5 262Q257 263.05 257 266.2V296ZM262 296V266.2Q262 263.05 265.5 262Q269 263.05 269 266.2V296ZM274 296V266.2Q274 263.05 277.5 262Q281 263.05 281 266.2V296ZM214 254H294V257H214ZM400 250V191.4Q400 187.35 404.5 186Q409 187.35 409 191.4V250ZM416 250V191.4Q416 187.35 420.5 186Q425 187.35 425 191.4V250ZM432 250V191.4Q432 187.35 436.5 186Q441 187.35 441 191.4V250ZM444 250V191.4Q444 187.35 448.5 186Q453 187.35 453 191.4V250ZM398 296V266.2Q398 263.05 401.5 262Q405 263.05 405 266.2V296ZM410 296V266.2Q410 263.05 413.5 262Q417 263.05 417 266.2V296ZM422 296V266.2Q422 263.05 425.5 262Q429 263.05 429 266.2V296ZM434 296V266.2Q434 263.05 437.5 262Q441 263.05 441 266.2V296ZM446 296V266.2Q446 263.05 449.5 262Q453 263.05 453 266.2V296ZM386 254H466V257H386ZM146 326V308.8Q146 305.2 150.0 304Q154 305.2 154 308.8V326ZM158 326V308.8Q158 305.2 162.0 304Q166 305.2 166 308.8V326ZM170 326V308.8Q170 305.2 174.0 304Q178 305.2 178 308.8V326ZM218 326V308.8Q218 305.2 222.0 304Q226 305.2 226 308.8V326ZM230 326V308.8Q230 305.2 234.0 304Q238 305.2 238 308.8V326ZM242 326V308.8Q242 305.2 246.0 304Q250 305.2 250 308.8V326ZM254 326V308.8Q254 305.2 258.0 304Q262 305.2 262 308.8V326ZM266 326V308.8Q266 305.2 270.0 304Q274 305.2 274 308.8V326ZM410 326V308.8Q410 305.2 414.0 304Q418 305.2 418 308.8V326ZM422 326V308.8Q422 305.2 426.0 304Q430 305.2 430 308.8V326ZM434 326V308.8Q434 305.2 438.0 304Q442 305.2 442 308.8V326ZM446 326V308.8Q446 305.2 450.0 304Q454 305.2 454 308.8V326ZM458 326V308.8Q458 305.2 462.0 304Q466 305.2 466 308.8V326ZM518 326V308.8Q518 305.2 522.0 304Q526 305.2 526 308.8V326ZM530 326V308.8Q530 305.2 534.0 304Q538 305.2 538 308.8V326ZM146 354V338.8Q146 335.2 150.0 334Q154 335.2 154 338.8V354ZM158 354V338.8Q158 335.2 162.0 334Q166 335.2 166 338.8V354ZM170 354V338.8Q170 335.2 174.0 334Q178 335.2 178 338.8V354ZM218 354V338.8Q218 335.2 222.0 334Q226 335.2 226 338.8V354ZM230 354V338.8Q230 335.2 234.0 334Q238 335.2 238 338.8V354ZM242 354V338.8Q242 335.2 246.0 334Q250 335.2 250 338.8V354ZM254 354V338.8Q254 335.2 258.0 334Q262 335.2 262 338.8V354ZM266 354V338.8Q266 335.2 270.0 334Q274 335.2 274 338.8V354ZM410 354V338.8Q410 335.2 414.0 334Q418 335.2 418 338.8V354ZM422 354V338.8Q422 335.2 426.0 334Q430 335.2 430 338.8V354ZM434 354V338.8Q434 335.2 438.0 334Q442 335.2 442 338.8V354ZM446 354V338.8Q446 335.2 450.0 334Q454 335.2 454 338.8V354ZM458 354V338.8Q458 335.2 462.0 334Q466 335.2 466 338.8V354ZM518 354V338.8Q518 335.2 522.0 334Q526 335.2 526 338.8V354ZM530 354V338.8Q530 335.2 534.0 334Q538 335.2 538 338.8V354ZM146 380V366.8Q146 363.2 150.0 362Q154 363.2 154 366.8V380ZM158 380V366.8Q158 363.2 162.0 362Q166 363.2 166 366.8V380ZM170 380V366.8Q170 363.2 174.0 362Q178 363.2 178 366.8V380ZM218 380V366.8Q218 363.2 222.0 362Q226 363.2 226 366.8V380ZM230 380V366.8Q230 363.2 234.0 362Q238 363.2 238 366.8V380ZM242 380V366.8Q242 363.2 246.0 362Q250 363.2 250 366.8V380ZM254 380V366.8Q254 363.2 258.0 362Q262 363.2 262 366.8V380ZM266 380V366.8Q266 363.2 270.0 362Q274 363.2 274 366.8V380ZM410 380V366.8Q410 363.2 414.0 362Q418 363.2 418 366.8V380ZM422 380V366.8Q422 363.2 426.0 362Q430 363.2 430 366.8V380ZM434 380V366.8Q434 363.2 438.0 362Q442 363.2 442 366.8V380ZM446 380V366.8Q446 363.2 450.0 362Q454 363.2 454 366.8V380ZM458 380V366.8Q458 363.2 462.0 362Q466 363.2 466 366.8V380ZM518 380V366.8Q518 363.2 522.0 362Q526 363.2 526 366.8V380ZM530 380V366.8Q530 363.2 534.0 362Q538 363.2 538 366.8V380ZM314 400V352A26 26 0 0 1 366 352V400ZM180 400V362.0A12.0 12.0 0 0 1 204 362.0V400ZM476 400V362.0A12.0 12.0 0 0 1 500 362.0V400ZM318 300V274.4Q318 254.6 340.0 248Q362 254.6 362 274.4V300ZM333 252a7 7 0 1 0 14 0a7 7 0 1 0 -14 0ZM148 310h3v12h-3zM148 340h3v12h-3zM148 370h3v12h-3zM530 310h3v12h-3zM530 340h3v12h-3zM530 370h3v12h-3z"/></g>
+        <g fill="#6A4026" opacity=".72" transform="matrix(0.86 0 0 0.86 738.0 -6.0)"><path d="M300 226V178.0Q300 173.5 305.0 172Q310 173.5 310 178.0V226ZM326 226V178.0Q326 173.5 331.0 172Q336 173.5 336 178.0V226ZM352 226V178.0Q352 173.5 357.0 172Q362 173.5 362 178.0V226ZM374 226V178.0Q374 173.5 379.0 172Q384 173.5 384 178.0V226ZM228 250V191.4Q228 187.35 232.5 186Q237 187.35 237 191.4V250ZM244 250V191.4Q244 187.35 248.5 186Q253 187.35 253 191.4V250ZM260 250V191.4Q260 187.35 264.5 186Q269 187.35 269 191.4V250ZM272 250V191.4Q272 187.35 276.5 186Q281 187.35 281 191.4V250ZM226 296V266.2Q226 263.05 229.5 262Q233 263.05 233 266.2V296ZM238 296V266.2Q238 263.05 241.5 262Q245 263.05 245 266.2V296ZM250 296V266.2Q250 263.05 253.5 262Q257 263.05 257 266.2V296ZM262 296V266.2Q262 263.05 265.5 262Q269 263.05 269 266.2V296ZM274 296V266.2Q274 263.05 277.5 262Q281 263.05 281 266.2V296ZM214 254H294V257H214ZM400 250V191.4Q400 187.35 404.5 186Q409 187.35 409 191.4V250ZM416 250V191.4Q416 187.35 420.5 186Q425 187.35 425 191.4V250ZM432 250V191.4Q432 187.35 436.5 186Q441 187.35 441 191.4V250ZM444 250V191.4Q444 187.35 448.5 186Q453 187.35 453 191.4V250ZM398 296V266.2Q398 263.05 401.5 262Q405 263.05 405 266.2V296ZM410 296V266.2Q410 263.05 413.5 262Q417 263.05 417 266.2V296ZM422 296V266.2Q422 263.05 425.5 262Q429 263.05 429 266.2V296ZM434 296V266.2Q434 263.05 437.5 262Q441 263.05 441 266.2V296ZM446 296V266.2Q446 263.05 449.5 262Q453 263.05 453 266.2V296ZM386 254H466V257H386ZM146 326V308.8Q146 305.2 150.0 304Q154 305.2 154 308.8V326ZM158 326V308.8Q158 305.2 162.0 304Q166 305.2 166 308.8V326ZM170 326V308.8Q170 305.2 174.0 304Q178 305.2 178 308.8V326ZM218 326V308.8Q218 305.2 222.0 304Q226 305.2 226 308.8V326ZM230 326V308.8Q230 305.2 234.0 304Q238 305.2 238 308.8V326ZM242 326V308.8Q242 305.2 246.0 304Q250 305.2 250 308.8V326ZM254 326V308.8Q254 305.2 258.0 304Q262 305.2 262 308.8V326ZM266 326V308.8Q266 305.2 270.0 304Q274 305.2 274 308.8V326ZM410 326V308.8Q410 305.2 414.0 304Q418 305.2 418 308.8V326ZM422 326V308.8Q422 305.2 426.0 304Q430 305.2 430 308.8V326ZM434 326V308.8Q434 305.2 438.0 304Q442 305.2 442 308.8V326ZM446 326V308.8Q446 305.2 450.0 304Q454 305.2 454 308.8V326ZM458 326V308.8Q458 305.2 462.0 304Q466 305.2 466 308.8V326ZM518 326V308.8Q518 305.2 522.0 304Q526 305.2 526 308.8V326ZM530 326V308.8Q530 305.2 534.0 304Q538 305.2 538 308.8V326ZM146 354V338.8Q146 335.2 150.0 334Q154 335.2 154 338.8V354ZM158 354V338.8Q158 335.2 162.0 334Q166 335.2 166 338.8V354ZM170 354V338.8Q170 335.2 174.0 334Q178 335.2 178 338.8V354ZM218 354V338.8Q218 335.2 222.0 334Q226 335.2 226 338.8V354ZM230 354V338.8Q230 335.2 234.0 334Q238 335.2 238 338.8V354ZM242 354V338.8Q242 335.2 246.0 334Q250 335.2 250 338.8V354ZM254 354V338.8Q254 335.2 258.0 334Q262 335.2 262 338.8V354ZM266 354V338.8Q266 335.2 270.0 334Q274 335.2 274 338.8V354ZM410 354V338.8Q410 335.2 414.0 334Q418 335.2 418 338.8V354ZM422 354V338.8Q422 335.2 426.0 334Q430 335.2 430 338.8V354ZM434 354V338.8Q434 335.2 438.0 334Q442 335.2 442 338.8V354ZM446 354V338.8Q446 335.2 450.0 334Q454 335.2 454 338.8V354ZM458 354V338.8Q458 335.2 462.0 334Q466 335.2 466 338.8V354ZM518 354V338.8Q518 335.2 522.0 334Q526 335.2 526 338.8V354ZM530 354V338.8Q530 335.2 534.0 334Q538 335.2 538 338.8V354ZM146 380V366.8Q146 363.2 150.0 362Q154 363.2 154 366.8V380ZM158 380V366.8Q158 363.2 162.0 362Q166 363.2 166 366.8V380ZM170 380V366.8Q170 363.2 174.0 362Q178 363.2 178 366.8V380ZM218 380V366.8Q218 363.2 222.0 362Q226 363.2 226 366.8V380ZM230 380V366.8Q230 363.2 234.0 362Q238 363.2 238 366.8V380ZM242 380V366.8Q242 363.2 246.0 362Q250 363.2 250 366.8V380ZM254 380V366.8Q254 363.2 258.0 362Q262 363.2 262 366.8V380ZM266 380V366.8Q266 363.2 270.0 362Q274 363.2 274 366.8V380ZM410 380V366.8Q410 363.2 414.0 362Q418 363.2 418 366.8V380ZM422 380V366.8Q422 363.2 426.0 362Q430 363.2 430 366.8V380ZM434 380V366.8Q434 363.2 438.0 362Q442 363.2 442 366.8V380ZM446 380V366.8Q446 363.2 450.0 362Q454 363.2 454 366.8V380ZM458 380V366.8Q458 363.2 462.0 362Q466 363.2 466 366.8V380ZM518 380V366.8Q518 363.2 522.0 362Q526 363.2 526 366.8V380ZM530 380V366.8Q530 363.2 534.0 362Q538 363.2 538 366.8V380ZM314 400V352A26 26 0 0 1 366 352V400ZM180 400V362.0A12.0 12.0 0 0 1 204 362.0V400ZM476 400V362.0A12.0 12.0 0 0 1 500 362.0V400ZM318 300V274.4Q318 254.6 340.0 248Q362 254.6 362 274.4V300ZM333 252a7 7 0 1 0 14 0a7 7 0 1 0 -14 0ZM148 310h3v12h-3zM148 340h3v12h-3zM148 370h3v12h-3zM530 310h3v12h-3zM530 340h3v12h-3zM530 370h3v12h-3zM290 296V280.8Q290 277.2 294.0 276Q298 277.2 298 280.8V296M292.5 296v-12a1.5 1.5 0 0 1 3 0v12zM302 296V280.8Q302 277.2 306.0 276Q310 277.2 310 280.8V296M304.5 296v-12a1.5 1.5 0 0 1 3 0v12zM374 296V280.8Q374 277.2 378.0 276Q382 277.2 382 280.8V296M376.5 296v-12a1.5 1.5 0 0 1 3 0v12zM386 296V280.8Q386 277.2 390.0 276Q394 277.2 394 280.8V296M388.5 296v-12a1.5 1.5 0 0 1 3 0v12z"/></g>
+        <g class="hero__detail" transform="matrix(0.86 0 0 0.86 738.0 -6.0)">
+          <path fill="#5A341C" opacity=".4" d="M280 175H294V320H280ZM452 175H466V320H452ZM380 150H398V320H380ZM140 296H540V300H140ZM149.9 284H158V400H149.9ZM531.9 284H540V400H531.9ZM263.7 278H270V400H263.7ZM419.7 278H426V400H419.7Z"/>
+          <path fill="none" stroke="#55301A" stroke-opacity=".85" stroke-width="1.1" d="M224 175V320M284 175V320M214 182H294M214 214H294M214 252H294M214 300H294M229 206H236M229 212H236M229 218H236M229 224H236M229 230H236M229 236H236M229 242H236M245 206H252M245 212H252M245 218H252M245 224H252M245 230H252M245 236H252M245 242H252M261 206H268M261 212H268M261 218H268M261 224H268M261 230H268M261 236H268M261 242H268M273 206H280M273 212H280M273 218H280M273 224H280M273 230H280M273 236H280M273 242H280M212.625 139.5l-2 -1.5M222.375 139.5l2 -1.5M214.25 129.0l-2 -1.5M220.75 129.0l2 -1.5M215.875 118.5l-2 -1.5M219.125 118.5l2 -1.5M285.625 139.5l-2 -1.5M295.375 139.5l2 -1.5M287.25 129.0l-2 -1.5M293.75 129.0l2 -1.5M288.875 118.5l-2 -1.5M292.125 118.5l2 -1.5M237.125 145.5l-2 -1.5M243.875 145.5l2 -1.5M238.25 139.0l-2 -1.5M242.75 139.0l2 -1.5M239.375 132.5l-2 -1.5M241.625 132.5l2 -1.5M264.125 145.5l-2 -1.5M270.875 145.5l2 -1.5M265.25 139.0l-2 -1.5M269.75 139.0l2 -1.5M266.375 132.5l-2 -1.5M268.625 132.5l2 -1.5M211 160h13M211 166h13M284 160h13M284 166h13M396 175V320M456 175V320M386 182H466M386 214H466M386 252H466M386 300H466M401 206H408M401 212H408M401 218H408M401 224H408M401 230H408M401 236H408M401 242H408M417 206H424M417 212H424M417 218H424M417 224H424M417 230H424M417 236H424M417 242H424M433 206H440M433 212H440M433 218H440M433 224H440M433 230H440M433 236H440M433 242H440M445 206H452M445 212H452M445 218H452M445 224H452M445 230H452M445 236H452M445 242H452M384.625 139.5l-2 -1.5M394.375 139.5l2 -1.5M386.25 129.0l-2 -1.5M392.75 129.0l2 -1.5M387.875 118.5l-2 -1.5M391.125 118.5l2 -1.5M457.625 139.5l-2 -1.5M467.375 139.5l2 -1.5M459.25 129.0l-2 -1.5M465.75 129.0l2 -1.5M460.875 118.5l-2 -1.5M464.125 118.5l2 -1.5M409.125 145.5l-2 -1.5M415.875 145.5l2 -1.5M410.25 139.0l-2 -1.5M414.75 139.0l2 -1.5M411.375 132.5l-2 -1.5M413.625 132.5l2 -1.5M436.125 145.5l-2 -1.5M442.875 145.5l2 -1.5M437.25 139.0l-2 -1.5M441.75 139.0l2 -1.5M438.375 132.5l-2 -1.5M440.625 132.5l2 -1.5M383 160h13M383 166h13M456 160h13M456 166h13M282 160H398M282 236H398M282 246H398M301 190H309M301 196H309M301 202H309M301 208H309M301 214H309M301 220H309M327 190H335M327 196H335M327 202H335M327 208H335M327 214H335M327 220H335M353 190H361M353 196H361M353 202H361M353 208H361M353 214H361M353 220H361M375 190H383M375 196H383M375 202H383M375 208H383M375 214H383M375 220H383M284.5 127.5l-2 -1.5M299.5 127.5l2 -1.5M287.0 117.0l-2 -1.5M297.0 117.0l2 -1.5M289.5 106.5l-2 -1.5M294.5 106.5l2 -1.5M380.5 127.5l-2 -1.5M395.5 127.5l2 -1.5M383.0 117.0l-2 -1.5M393.0 117.0l2 -1.5M385.5 106.5l-2 -1.5M390.5 106.5l2 -1.5M307.75 138.5l-2 -1.5M318.25 138.5l2 -1.5M309.5 131.0l-2 -1.5M316.5 131.0l2 -1.5M311.25 123.5l-2 -1.5M314.75 123.5l2 -1.5M331.75 138.5l-2 -1.5M342.25 138.5l2 -1.5M333.5 131.0l-2 -1.5M340.5 131.0l2 -1.5M335.25 123.5l-2 -1.5M338.75 123.5l2 -1.5M355.75 138.5l-2 -1.5M366.25 138.5l2 -1.5M357.5 131.0l-2 -1.5M364.5 131.0l2 -1.5M359.25 123.5l-2 -1.5M362.75 123.5l2 -1.5M140 300H540M140 328H540M140 356H540M140 384H540M144.5 310V326M143 308.8h3M156.5 310V326M155 308.8h3M168.5 310V326M167 308.8h3M216.5 310V326M215 308.8h3M228.5 310V326M227 308.8h3M240.5 310V326M239 308.8h3M252.5 310V326M251 308.8h3M264.5 310V326M263 308.8h3M408.5 310V326M407 308.8h3M420.5 310V326M419 308.8h3M432.5 310V326M431 308.8h3M444.5 310V326M443 308.8h3M456.5 310V326M455 308.8h3M516.5 310V326M515 308.8h3M528.5 310V326M527 308.8h3M144.5 340V354M143 338.8h3M156.5 340V354M155 338.8h3M168.5 340V354M167 338.8h3M216.5 340V354M215 338.8h3M228.5 340V354M227 338.8h3M240.5 340V354M239 338.8h3M252.5 340V354M251 338.8h3M264.5 340V354M263 338.8h3M408.5 340V354M407 338.8h3M420.5 340V354M419 338.8h3M432.5 340V354M431 338.8h3M444.5 340V354M443 338.8h3M456.5 340V354M455 338.8h3M516.5 340V354M515 338.8h3M528.5 340V354M527 338.8h3M144.5 368V380M143 366.8h3M156.5 368V380M155 366.8h3M168.5 368V380M167 366.8h3M216.5 368V380M215 366.8h3M228.5 368V380M227 366.8h3M240.5 368V380M239 366.8h3M252.5 368V380M251 366.8h3M264.5 368V380M263 366.8h3M408.5 368V380M407 366.8h3M420.5 368V380M419 366.8h3M432.5 368V380M431 366.8h3M444.5 368V380M443 366.8h3M456.5 368V380M455 366.8h3M516.5 368V380M515 366.8h3M528.5 368V380M527 366.8h3M140 300H158M140 330H158M140 360H158M142.25 273.0l-2 -1.5M155.75 273.0l2 -1.5M144.5 264.0l-2 -1.5M153.5 264.0l2 -1.5M146.75 255.0l-2 -1.5M151.25 255.0l2 -1.5M522 300H540M522 330H540M522 360H540M524.25 273.0l-2 -1.5M537.75 273.0l2 -1.5M526.5 264.0l-2 -1.5M535.5 264.0l2 -1.5M528.75 255.0l-2 -1.5M533.25 255.0l2 -1.5M256 300H270M256 330H270M256 360H270M257.75 268.0l-2 -1.5M268.25 268.0l2 -1.5M259.5 260.0l-2 -1.5M266.5 260.0l2 -1.5M261.25 252.0l-2 -1.5M264.75 252.0l2 -1.5M412 300H426M412 330H426M412 360H426M413.75 268.0l-2 -1.5M424.25 268.0l2 -1.5M415.5 260.0l-2 -1.5M422.5 260.0l2 -1.5M417.25 252.0l-2 -1.5M420.75 252.0l2 -1.5M262 300L340 236L418 300M271.75 292.0l-1 -3M408.25 292.0l1 -3M281.5 284.0l-1 -3M398.5 284.0l1 -3M291.25 276.0l-1 -3M388.75 276.0l1 -3M301.0 268.0l-1 -3M379.0 268.0l1 -3M310.75 260.0l-1 -3M369.25 260.0l1 -3M320.5 252.0l-1 -3M359.5 252.0l1 -3M330.25 244.0l-1 -3M349.75 244.0l1 -3M340 260m-15 0a15 15 0 1 0 30 0a15 15 0 1 0 -30 0M340 260L355.0 260.0M340 260L350.6 270.6M340 260L340.0 275.0M340 260L329.4 270.6M340 260L325.0 260.0M340 260L329.4 249.4M340 260L340.0 245.0M340 260L350.6 249.4M334 272V300M346 272V300M284 400V326.0A56.0 56.0 0 0 1 396 326.0V400M302 400V332.0A38.0 38.0 0 0 1 378 332.0V400M173 400V348.0A19.0 19.0 0 0 1 211 348.0V400M469 400V348.0A19.0 19.0 0 0 1 507 348.0V400M316 366h48M316 380h48M316 392h48M340 346V400"/>
+          <path fill="none" stroke="#FFF6E4" stroke-opacity=".9" stroke-width=".9" d="M217 175V320M214 184H294M214 254H294M226 250V190.8Q226 184.95 232.5 183Q239 184.95 239 190.8V250M242 250V190.8Q242 184.95 248.5 183Q255 184.95 255 190.8V250M258 250V190.8Q258 184.95 264.5 183Q271 184.95 271 190.8V250M270 250V190.8Q270 184.95 276.5 183Q283 184.95 283 190.8V250M389 175V320M386 184H466M386 254H466M398 250V190.8Q398 184.95 404.5 183Q411 184.95 411 190.8V250M414 250V190.8Q414 184.95 420.5 183Q427 184.95 427 190.8V250M430 250V190.8Q430 184.95 436.5 183Q443 184.95 443 190.8V250M442 250V190.8Q442 184.95 448.5 183Q455 184.95 455 190.8V250M285 150V320M282 238H398M298 226V178.4Q298 172.1 305.0 170Q312 172.1 312 178.4V226M324 226V178.4Q324 172.1 331.0 170Q338 172.1 338 178.4V226M350 226V178.4Q350 172.1 357.0 170Q364 172.1 364 178.4V226M372 226V178.4Q372 172.1 379.0 170Q386 172.1 386 178.4V226M140 302H540M140 330H540M140 358H540M144.5 326V309.6Q144.5 304.65 150.0 303Q155.5 304.65 155.5 309.6V326M156.5 326V309.6Q156.5 304.65 162.0 303Q167.5 304.65 167.5 309.6V326M168.5 326V309.6Q168.5 304.65 174.0 303Q179.5 304.65 179.5 309.6V326M216.5 326V309.6Q216.5 304.65 222.0 303Q227.5 304.65 227.5 309.6V326M228.5 326V309.6Q228.5 304.65 234.0 303Q239.5 304.65 239.5 309.6V326M240.5 326V309.6Q240.5 304.65 246.0 303Q251.5 304.65 251.5 309.6V326M252.5 326V309.6Q252.5 304.65 258.0 303Q263.5 304.65 263.5 309.6V326M264.5 326V309.6Q264.5 304.65 270.0 303Q275.5 304.65 275.5 309.6V326M408.5 326V309.6Q408.5 304.65 414.0 303Q419.5 304.65 419.5 309.6V326M420.5 326V309.6Q420.5 304.65 426.0 303Q431.5 304.65 431.5 309.6V326M432.5 326V309.6Q432.5 304.65 438.0 303Q443.5 304.65 443.5 309.6V326M444.5 326V309.6Q444.5 304.65 450.0 303Q455.5 304.65 455.5 309.6V326M456.5 326V309.6Q456.5 304.65 462.0 303Q467.5 304.65 467.5 309.6V326M516.5 326V309.6Q516.5 304.65 522.0 303Q527.5 304.65 527.5 309.6V326M528.5 326V309.6Q528.5 304.65 534.0 303Q539.5 304.65 539.5 309.6V326M144.5 354V339.6Q144.5 334.65 150.0 333Q155.5 334.65 155.5 339.6V354M156.5 354V339.6Q156.5 334.65 162.0 333Q167.5 334.65 167.5 339.6V354M168.5 354V339.6Q168.5 334.65 174.0 333Q179.5 334.65 179.5 339.6V354M216.5 354V339.6Q216.5 334.65 222.0 333Q227.5 334.65 227.5 339.6V354M228.5 354V339.6Q228.5 334.65 234.0 333Q239.5 334.65 239.5 339.6V354M240.5 354V339.6Q240.5 334.65 246.0 333Q251.5 334.65 251.5 339.6V354M252.5 354V339.6Q252.5 334.65 258.0 333Q263.5 334.65 263.5 339.6V354M264.5 354V339.6Q264.5 334.65 270.0 333Q275.5 334.65 275.5 339.6V354M408.5 354V339.6Q408.5 334.65 414.0 333Q419.5 334.65 419.5 339.6V354M420.5 354V339.6Q420.5 334.65 426.0 333Q431.5 334.65 431.5 339.6V354M432.5 354V339.6Q432.5 334.65 438.0 333Q443.5 334.65 443.5 339.6V354M444.5 354V339.6Q444.5 334.65 450.0 333Q455.5 334.65 455.5 339.6V354M456.5 354V339.6Q456.5 334.65 462.0 333Q467.5 334.65 467.5 339.6V354M516.5 354V339.6Q516.5 334.65 522.0 333Q527.5 334.65 527.5 339.6V354M528.5 354V339.6Q528.5 334.65 534.0 333Q539.5 334.65 539.5 339.6V354M144.5 380V367.6Q144.5 362.65 150.0 361Q155.5 362.65 155.5 367.6V380M156.5 380V367.6Q156.5 362.65 162.0 361Q167.5 362.65 167.5 367.6V380M168.5 380V367.6Q168.5 362.65 174.0 361Q179.5 362.65 179.5 367.6V380M216.5 380V367.6Q216.5 362.65 222.0 361Q227.5 362.65 227.5 367.6V380M228.5 380V367.6Q228.5 362.65 234.0 361Q239.5 362.65 239.5 367.6V380M240.5 380V367.6Q240.5 362.65 246.0 361Q251.5 362.65 251.5 367.6V380M252.5 380V367.6Q252.5 362.65 258.0 361Q263.5 362.65 263.5 367.6V380M264.5 380V367.6Q264.5 362.65 270.0 361Q275.5 362.65 275.5 367.6V380M408.5 380V367.6Q408.5 362.65 414.0 361Q419.5 362.65 419.5 367.6V380M420.5 380V367.6Q420.5 362.65 426.0 361Q431.5 362.65 431.5 367.6V380M432.5 380V367.6Q432.5 362.65 438.0 361Q443.5 362.65 443.5 367.6V380M444.5 380V367.6Q444.5 362.65 450.0 361Q455.5 362.65 455.5 367.6V380M456.5 380V367.6Q456.5 362.65 462.0 361Q467.5 362.65 467.5 367.6V380M516.5 380V367.6Q516.5 362.65 522.0 361Q527.5 362.65 527.5 367.6V380M528.5 380V367.6Q528.5 362.65 534.0 361Q539.5 362.65 539.5 367.6V380M276 400V326.0A64.0 64.0 0 0 1 404 326.0V400M292 400V330.0A48.0 48.0 0 0 1 388 330.0V400M168 400V348.0A24.0 24.0 0 0 1 216 348.0V400M178 400V348.0A14.0 14.0 0 0 1 206 348.0V400M464 400V348.0A24.0 24.0 0 0 1 512 348.0V400M474 400V348.0A14.0 14.0 0 0 1 502 348.0V400"/>
+        </g>
         <!-- The hill - sits INTO the base of buildings -->
         <path fill="url(#tex-grass)" d="M-1220 480V428C-800 426 -300 420 0 415C240 404 520 378 720 350C830 335 960 320 1090 318C1230 316 1330 332 1440 350C1800 384 2200 400 2640 404V480Z"/><path fill="url(#hero-hillshade)" d="M-1220 480V428C-800 426 -300 420 0 415C240 404 520 378 720 350C830 335 960 320 1090 318C1230 316 1330 332 1440 350C1800 384 2200 400 2640 404V480Z"/>
       </g>
